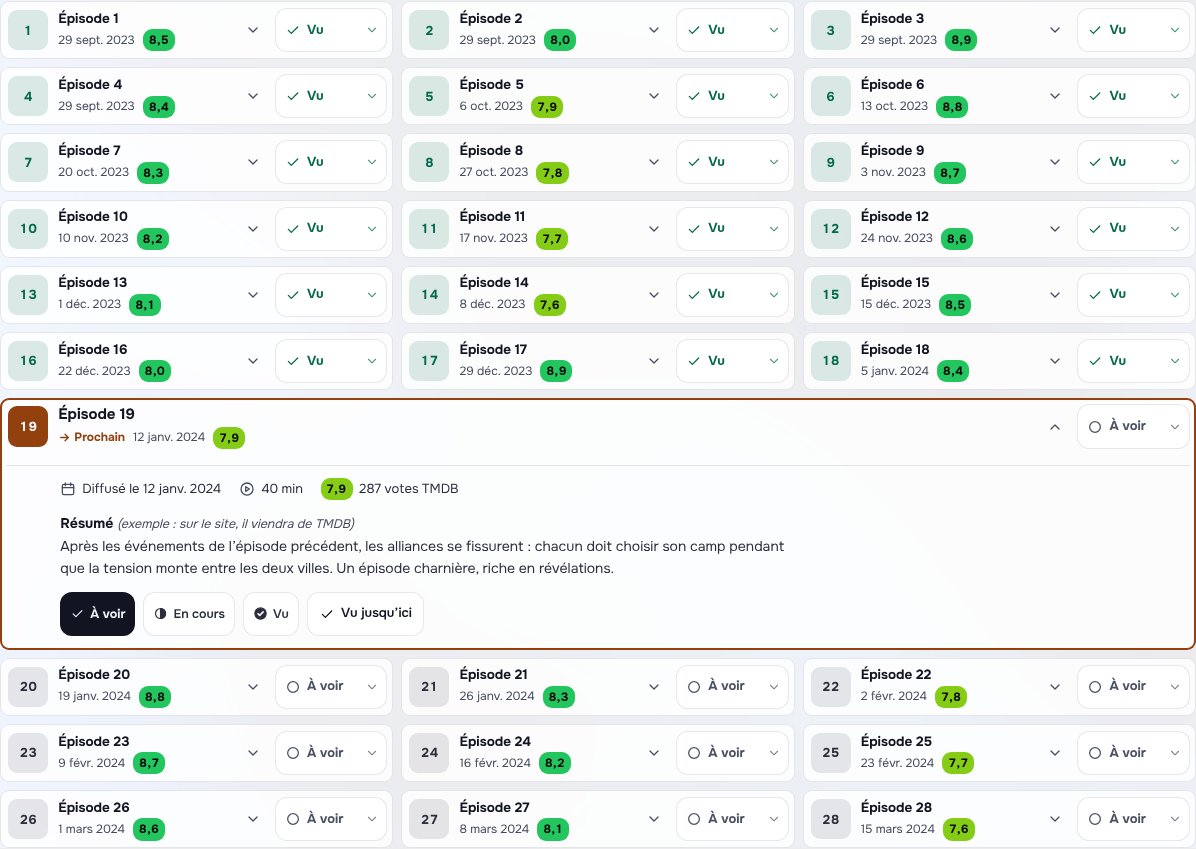
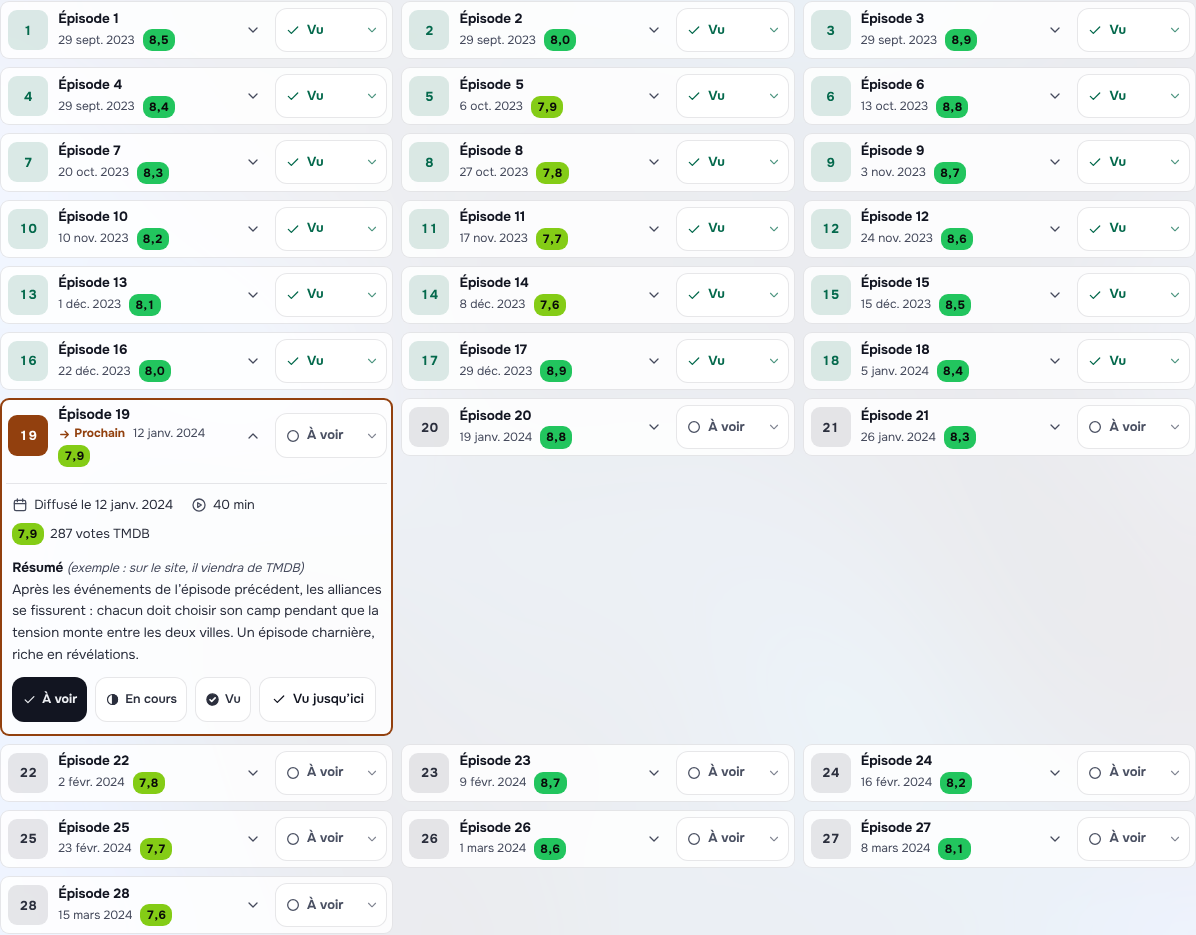
Atelier : l'épisode déplié reste dans sa colonne et s'ouvre vers le bas
Claude-Session: https://claude.ai/code/session_012EWjZrtSGXyqLTim6ws6zk

diff --git a/maquettes/07-atelier/designs.css b/maquettes/07-atelier/designs.css
@@ -554,3 +554,9 @@
 .dz .eact{display:flex;flex-wrap:wrap;gap:8px}
 .dz .esel{display:block}.dz .esel h4{font-size:15px;font-weight:700;margin:2px 0 0}
 .dz .esel .edet{padding-left:0;border-top:0;margin-top:6px}
+/* l'épisode déplié reste à sa place, dans sa colonne, et s'ouvre vers le bas */
+.dz .elist{align-items:start}
+.dz .er.open{grid-column:auto}
+.dz .er.open .h4{font-size:14px}
+.dz .edet{padding:12px 4px 4px 6px}
+.dz .edet .syn2{font-size:13.5px}
